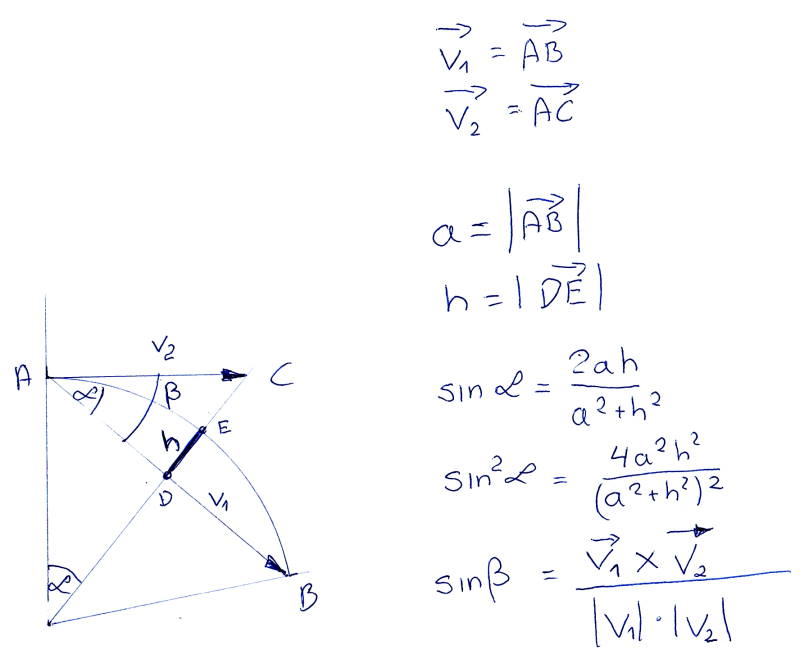
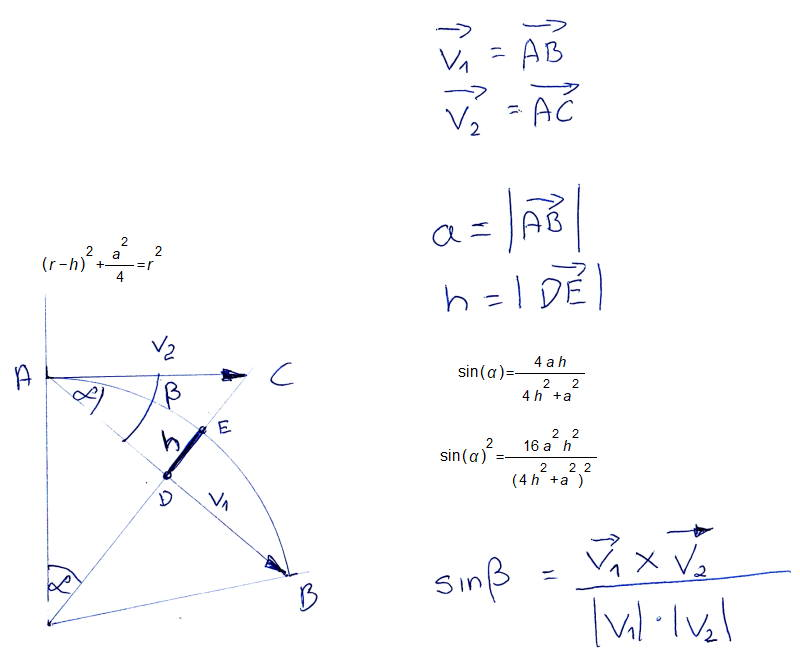
fixes sin calculation

Changed region(s): [[0.5312, 0.509, 0.9062, 0.7784], [0.0625, 0.3593, 0.1562, 0.4192], [0.1875, 0.3593, 0.2188, 0.3892]]

diff --git a/app/iSukces.DrawingPanel.Paths.Test/IsAngleBetweenSmallEnoughtBasedOnHTests.cs b/app/iSukces.DrawingPanel.Paths.Test/IsAngleBetweenSmallEnoughtBasedOnHTests.cs
@@ -1,0 +1,152 @@
+using System;
+using System.Windows;
+using Xunit;
+
+namespace iSukces.DrawingPanel.Paths.Test
+{
+    public class IsAngleBetweenSmallEnoughtBasedOnHTests
+    {
+        [Fact]
+        public void T01_Should_calculate()
+        {
+            var vector1 = new Vector(2, 0);
+            var vector2 = new Vector(10, 10);
+            var h       = 0.1;
+
+            MathUtils.IsAngleBetweenSmallEnoughtBasedOnH(vector1, vector2, h);
+            
+            var result  = new CodeCopy().Update(vector1, vector2, h);
+            var code    = Codemaker.Make(result, nameof(result));
+
+            #region Asserts
+            Assert.Equal(2, result.Test_A, 6);
+            Assert.Equal(45, result.Reference_AngleBetween, 6);
+            Assert.Equal(0.707106781186547, result.Reference_SinAngleBetween, 6);
+            Assert.Equal(0.707106781186548, result.Test_AngleBetween, 6);
+            Assert.Equal(0.198019801980198, result.Reference_SinusByH, 6);
+            Assert.Equal(0.198019801980198, result.Test_SinusByH, 6);
+            #endregion
+            
+        }
+
+        [Fact]
+        public void T02_Should_calculate()
+        {
+            var vector1 = new Vector(2, 0);
+            var vector2 = new Vector(10, -10);
+            var h       = 0.1;
+
+            MathUtils.IsAngleBetweenSmallEnoughtBasedOnH(vector1, vector2, h);
+            
+            var result  = new CodeCopy().Update(vector1, vector2, h);
+            var code    = Codemaker.Make(result, nameof(result));
+
+            #region Asserts
+            Assert.Equal(2, result.Test_A, 6);
+            Assert.Equal(-45, result.Reference_AngleBetween, 6);
+            Assert.Equal(-0.707106781186547, result.Reference_SinAngleBetween, 6);
+            Assert.Equal(0.707106781186548, result.Test_AngleBetween, 6);
+            Assert.Equal(0.198019801980198, result.Reference_SinusByH, 6);
+            Assert.Equal(0.198019801980198, result.Test_SinusByH, 6);
+            #endregion
+
+            
+        }
+
+
+        class Codemaker : DpAssertsBuilder
+        {
+            public static string Make(CodeCopy result, string name)
+            {
+                var q = new Codemaker();
+                return q.Make1(result, name);
+            }
+
+            private string Make1(CodeCopy result, string name)
+            {
+                return Create(() =>
+                {
+                    name += ".";
+                    Add(result.Test_A, name + nameof(result.Test_A));
+                    Add(result.Reference_AngleBetween, name + nameof(result.Reference_AngleBetween));
+                    Add(result.Reference_SinAngleBetween, name + nameof(result.Reference_SinAngleBetween));
+                    Add(result.Test_AngleBetween, name + nameof(result.Test_AngleBetween));
+                    
+                    Add(result.Reference_SinusByH, name + nameof(result.Reference_SinusByH));
+                    Add(result.Test_SinusByH, name + nameof(result.Test_SinusByH));
+                });
+            }
+        }
+
+        public class CodeCopy
+        {
+            public CodeCopy Update(Vector vector1, Vector vector2, double h)
+            {
+                Reference_AngleBetween    = Vector.AngleBetween(vector1, vector2);
+                Reference_SinAngleBetween = Math.Sin(Reference_AngleBetween * (Math.PI / 180));
+
+                {
+                    var a = vector1.Length;
+                    Reference_SinusByH = (4 * a * h) / (a * a + h * h*4);
+                }
+
+                /*vector1 = new Vector(100, 0);
+                h       = 2;*/
+
+                /*
+                const double h  = 0.001;
+                const double h2 = h * h;
+                double       a  = 1000.0 / 2;
+    
+                var sin = (2 * a * h) / (h2 + a * a);
+                
+                sinus ^2 = (4*A^2*H^2)/(H^2+A^2)^2
+                */
+
+                // (2*A*H)/(H^2+A^2)
+                var x1 = vector1.X;
+                var x2 = vector2.X;
+                var y1 = vector1.Y;
+                var y2 = vector2.Y;
+
+                HSquare = h * h;
+                ASquare = (x1 * x1 + y1 * y1);
+                var bSquare = ASquare * 0.25;
+
+                var m = ( HSquare + bSquare);
+                m *= m;
+
+                var counter = ASquare * HSquare;
+                SinSquareByH = counter / m;
+
+                Cross = x1 * y2 - x2 * y1;
+
+                LengthSquare2 = (x2 * x2 + y2 * y2);
+                Sqr           = ASquare * LengthSquare2;
+
+                SinusSquare = (Cross * Cross) / Sqr;
+                return this;
+                //======================= 
+            }
+
+            public double Reference_SinAngleBetween { get; set; }
+
+            public double Reference_AngleBetween { get; set; }
+
+            public double Reference_SinusByH { get; set; }
+
+            public double HSquare       { get; set; }
+            public double ASquare       { get; set; }
+            public double SinSquareByH  { get; set; }
+            public double Cross         { get; set; }
+            public double LengthSquare2 { get; set; }
+            public double Sqr           { get; set; }
+            public double SinusSquare   { get; set; }
+
+
+            public double Test_SinusByH     => Math.Sqrt(SinSquareByH);
+            public double Test_AngleBetween => Math.Sqrt(SinusSquare);
+            public double Test_A => Math.Sqrt(ASquare);
+        }
+    }
+}

diff --git a/app/iSukces.DrawingPanel.Paths/_utils/MathUtils.cs b/app/iSukces.DrawingPanel.Paths/_utils/MathUtils.cs
@@ -134,51 +134,32 @@ namespace iSukces.DrawingPanel.Paths
 
         public static bool IsAngleBetweenSmallEnoughtBasedOnH(Vector vector1, Vector vector2, double h)
         {
-
-            /*vector1 = new Vector(100, 0);
-            h       = 2;*/
-            
-            
             /*
-            const double h  = 0.001;
-            const double h2 = h * h;
-            double       a  = 1000.0 / 2;
-
-            var sin = (2 * a * h) / (h2 + a * a);
-            
-            sinus ^2 = (4*A^2*H^2)/(H^2+A^2)^2
+            see :
+            https://raw.githubusercontent.com/isukces/iSukces.DrawingPanel/main/doc/vector_for_arc_compare.jpg
             */
 
-            // (2*A*H)/(H^2+A^2)
             var x1    = vector1.X;
             var x2    = vector2.X;
             var y1    = vector1.Y;
             var y2    = vector2.Y;
             
-            see :
-            https://raw.githubusercontent.com/isukces/iSukces.DrawingPanel/main/doc/vector_for_arc_compare.jpg
-            
-            var hSquare      = h * h;
+            var hSquare = h * h;
             var aSquare = (x1 * x1 + y1 * y1);
+            var bSquare = aSquare * 0.25;
             
-            var m = (hSquare + aSquare * 0.25);
+            var m = ( hSquare + bSquare);
             m *= m;
-            
-            var sinSquareByH = (aSquare * hSquare) / m;
-            
-            
-            
-            var cross = x1 * y2 - x2 * y1;
 
+            var counter = aSquare * hSquare;
+            var sinSquareByH = counter / m;
+
+            var cross         = x1 * y2 - x2 * y1;
             var lengthSquare2 = (x2 * x2 + y2 * y2);
             var sqr           = aSquare * lengthSquare2;
-
-            var sinusSquare = (cross * cross) / sqr;
+            var sinusSquare   = (cross * cross) / sqr;
 
             //======================= 
-          
-            
-
 
             return sinusSquare < sinSquareByH;
 

diff --git a/app/iSukces.DrawingPanel.Paths.Test/_tools/AssertsBuilder.cs b/app/iSukces.DrawingPanel.Paths.Test/_tools/AssertsBuilder.cs
@@ -117,7 +117,7 @@ namespace iSukces.DrawingPanel.Paths.Test
             Release(name);
         }
 
-        protected string Create(Action action)
+        public string Create(Action action)
         {
             _sb = new StringBuilder();
             WriteLine("#region Asserts");
